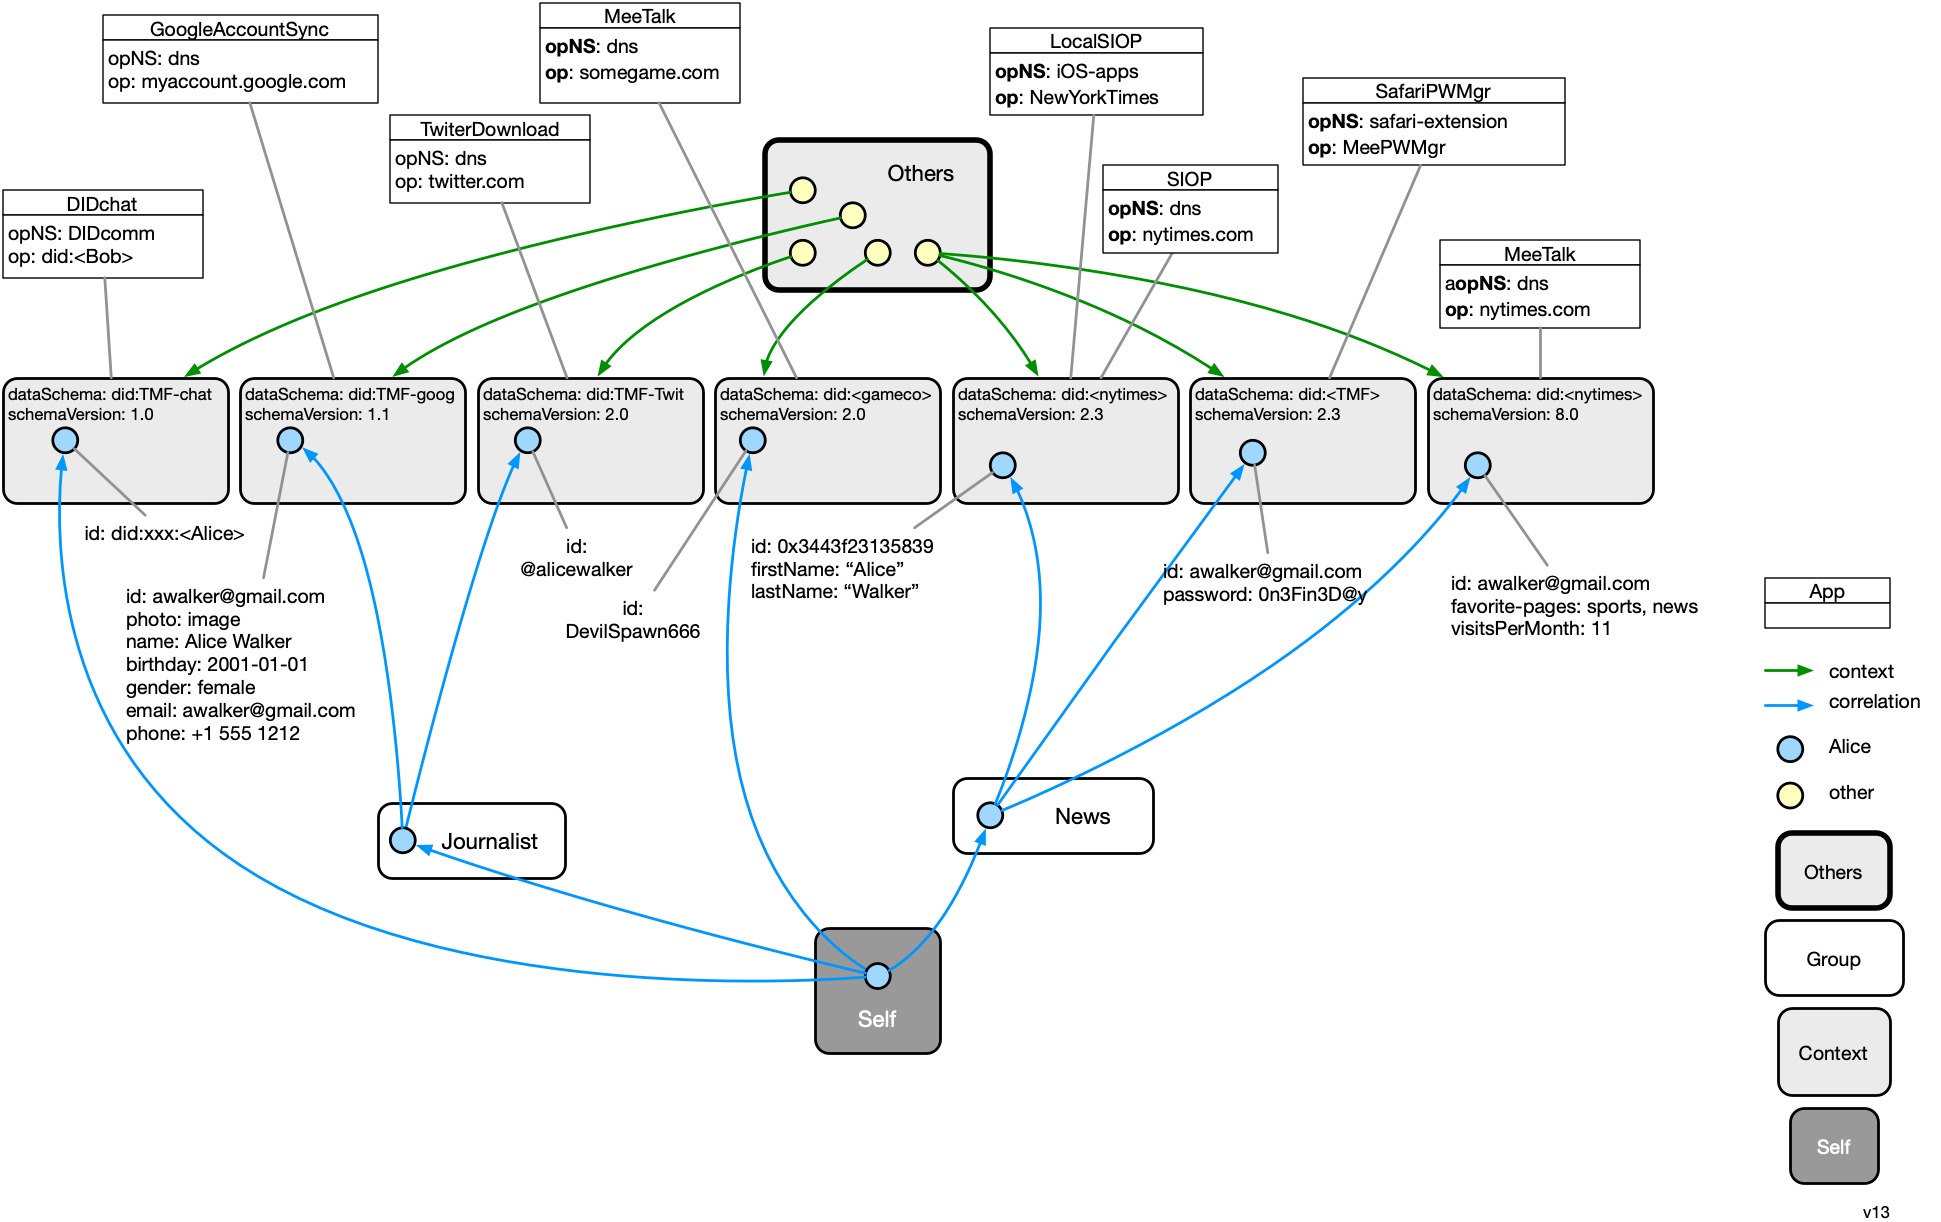
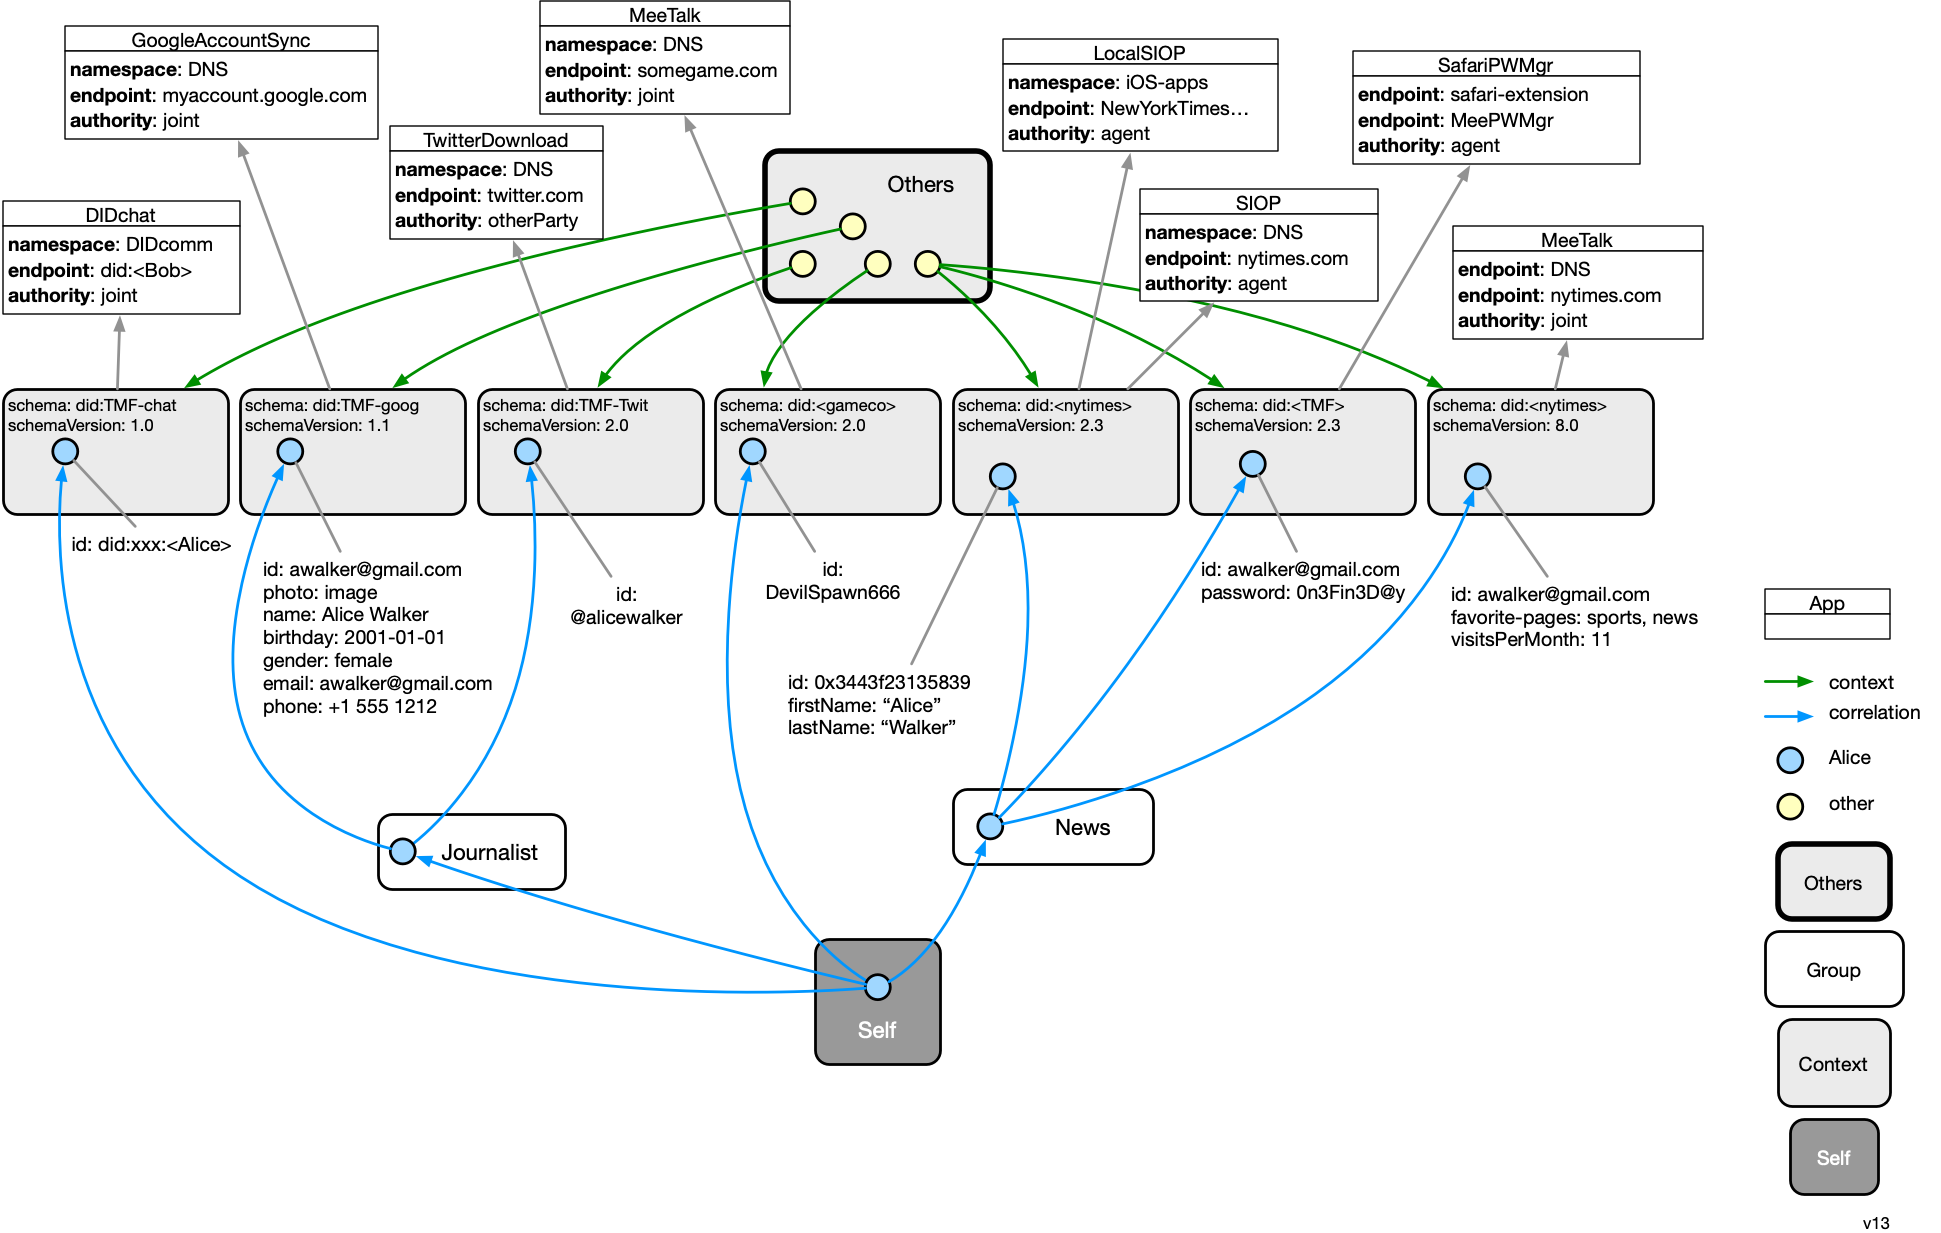
renaming

diff --git a/src/Data_model.md b/src/Data_model.md
@@ -32,9 +32,9 @@ Here are the various data container classes.
   - **name** - the name of the group 
   - **icon** - a icon for the group
 - **Context** - a container of one Person node representing the user in a specific aspect of their relationship with some other party. We say "specific aspect" because the relationship between the user a given other, may be represented by more than one context, each representing a different aspect. A context has the following attributes, that taken together uniquely identify the context:
-  - **opNS** - other party name space - a string that indicates the namespace used by the "op" attribute
-  - **op** - other party - a string identifier that unique identifies the other party with which the user has a relationship within the opNS namespace
-  - **dataSchema** - a DID value that identifies the data schema (i.e. the classes of objects and kinds of inter-relationships) used by this context. All apps that manage the data of a context must have a matching dataSchema. The DID can be resolved and the identity of the issuer matched against the opNS:op values
+  - **namespace** - endPoint name space - a string that indicates the namespace used by the "op" attribute
+  - **endpoint** - other party endpoint - a string identifier that unique identifies the other party with which the user has a relationship within the opNS namespace
+  - **schema** - a linke to the data schema (i.e. the classes of objects and kinds of inter-relationships) used by this context. All apps that manage the data of a context must have a matching dataSchema. 
   - **protocol**: a string value that identifies the networking protocol used to communicate with the other party
 
 Instances of Context are managed by apps/sites. The Others, Self, Group and ContextCopy instances are entirely managed by the agent itself.
